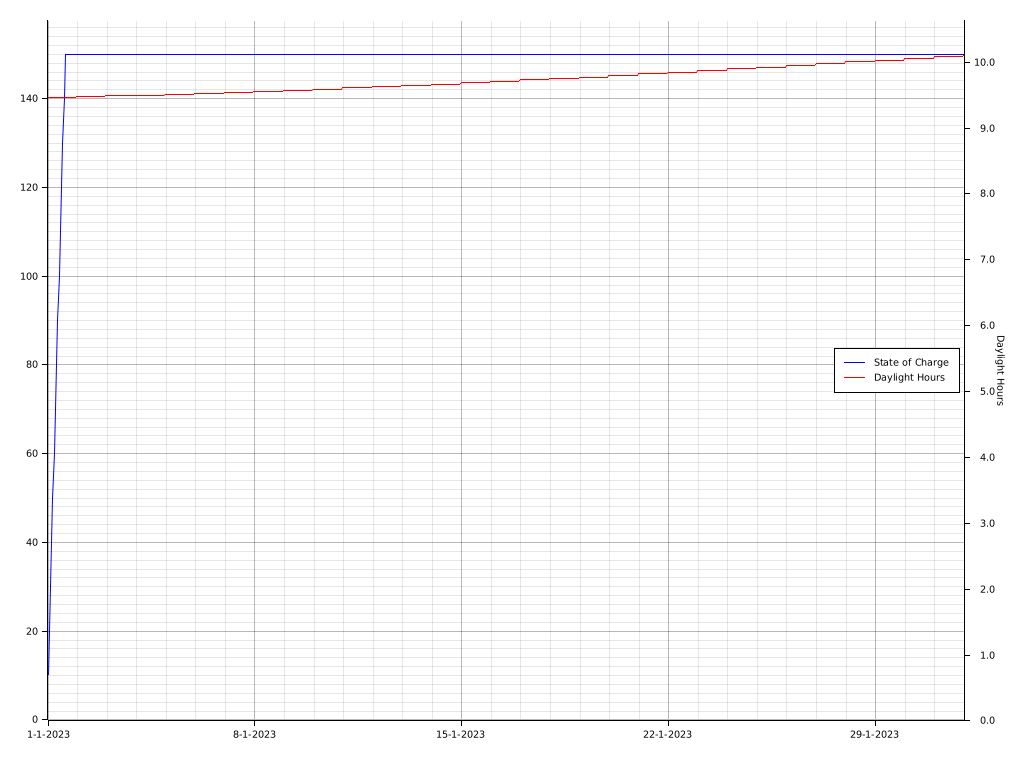
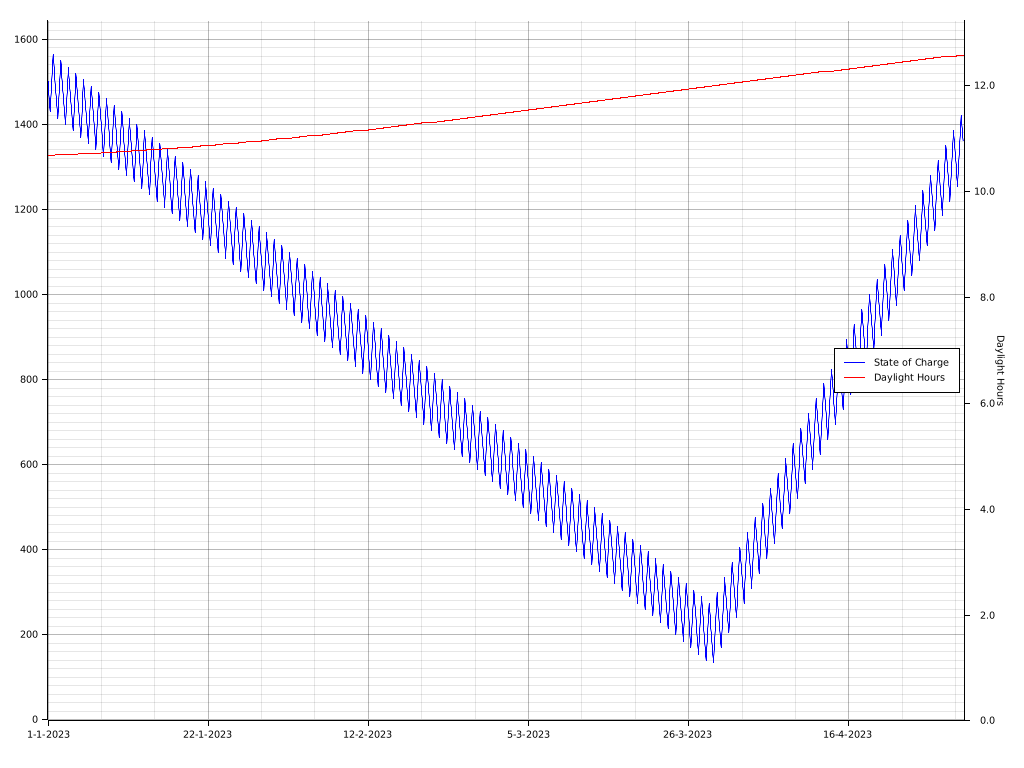
Calculate actual solar durations - WIP

diff --git a/src/lib.rs b/src/lib.rs
@@ -12,7 +12,6 @@ pub struct State {
     pub solar_nominal_output: f32, // watts
     pub charge_history: Vec<f32>, // Wh
     pub latitude: f32,
-    pub ordinal_day: u32,
     pub history_dates: Vec<NaiveDateTime>,
     pub now: NaiveDateTime, 
     pub step_size: Duration
@@ -26,7 +25,6 @@ impl State {
             solar_nominal_output: 0.,
             charge_history: Vec::new(),
             latitude: 0.,
-            ordinal_day: 0,
             history_dates: Vec::new(),
             now:  NaiveDateTime::new(NaiveDate::from_ymd_opt(2023, 1, 1).unwrap(), NaiveTime::from_hms_opt(0,0,0).unwrap()),
             step_size: Duration::hours(1)
@@ -34,63 +32,31 @@ impl State {
     }
 }
 
-pub fn net_energy(state: &State) -> f32 {
-    let net_power = state.solar_nominal_output - total_load(&state);
-    net_power*bounded_daylight_hours(state.now, state.now + state.step_size, daylight_hours(state.latitude, state.ordinal_day))
-}
-
-#[test]
-fn test_net() {
-    let mut state = State::new();
-    state.battery_capacity = 100.;
-    state.current_stored_energy = 50.;
-    state.solar_nominal_output = 100.;
-    state.loads = vec![10.,10.,30.];
-    let net = net_energy(&state);
-    assert_eq!(net, 100.)
-}
-
-#[test]
-fn test_net_2() {
-    let mut state = State::new();
-    state.battery_capacity = 100.;
-    state.current_stored_energy = 50.;
-    state.solar_nominal_output = 50.;
-    state.loads = vec![10.];
-    let net = net_energy(&state);
-    assert_eq!(net, 80.)
-}
-
-pub fn total_load(state: &State) -> f32 {
-    state.loads.iter().sum()
-}
-#[test]
-fn test_total_loads() {
-    let mut state = State::new();
-    state.loads = vec![10.,10.,30.];
-    let total = total_load(&state);
-    assert_eq!(total, 50.)
-}
-
 
 pub fn step(state: &State) -> State {
     let delta = net_energy(&state);
-    let effective_delta = if delta < -state.current_stored_energy {
-        -state.current_stored_energy
-    } else if delta + state.current_stored_energy > state.battery_capacity {
-        state.battery_capacity - state.current_stored_energy
-    } else {
-        delta
-    };
+
+    let unbounded_charge = state.current_stored_energy + delta;
+
     let mut new_state = state.clone();
-    new_state.charge_history.push(state.current_stored_energy + effective_delta);
-    new_state.current_stored_energy += effective_delta;
+    new_state.charge_history.push(state.current_stored_energy);
+    new_state.current_stored_energy = if unbounded_charge < 0. {
+        0.
+    } else if unbounded_charge > state.battery_capacity {
+        state.battery_capacity
+    } else {
+        state.current_stored_energy + delta
+    };
+    new_state.now = state.now + state.step_size;
+    new_state.history_dates.push(state.now);
     new_state
 }
 
 #[test]
 fn test_step_1() {
     let mut state = State::new();
+    state.now = NaiveDateTime::new(NaiveDate::from_ymd_opt(2023, 1, 1).unwrap(), NaiveTime::from_hms_opt(12,0,0).unwrap());
+    state.step_size = Duration::hours(2);
     state.battery_capacity = 100.;
     state.current_stored_energy = 50.;
     state.solar_nominal_output = 0.;
@@ -113,13 +79,61 @@ fn test_step_2() {
 #[test]
 fn test_step_3() {
     let mut state = State::new();
+    state.now = NaiveDateTime::new(NaiveDate::from_ymd_opt(2023, 1, 1).unwrap(), NaiveTime::from_hms_opt(12,0,0).unwrap());
+
     state.battery_capacity = 100.;
     state.current_stored_energy = 50.;
     state.solar_nominal_output = 50.;
     state.loads = vec![10.];
     let net = step(&state);
-    assert_eq!(net.current_stored_energy, 100.)
+    assert_eq!(net.current_stored_energy, 90.)
 }
+
+pub fn net_energy(state: &State) -> f32 {
+    let actual_solar_energy = state.solar_nominal_output * bounded_daylight_hours(
+        state.now, 
+        state.now + state.step_size, 
+        daylight_hours(state.latitude, state.now.ordinal0()));
+    let load_energy = total_load(state) * state.step_size.num_minutes() as f32 / 60.;
+    actual_solar_energy - load_energy
+}
+
+#[test]
+fn test_net() {
+    let mut state = State::new();
+    state.now = NaiveDateTime::new(NaiveDate::from_ymd_opt(2023, 1, 1).unwrap(), NaiveTime::from_hms_opt(12,0,0).unwrap());
+    state.battery_capacity = 100.;
+    state.current_stored_energy = 50.;
+    state.solar_nominal_output = 80.;
+    state.loads = vec![10.,10.,30.];
+    let net = net_energy(&state);
+    assert_eq!(net, 30.)
+}
+
+#[test]
+fn test_net_2() {
+    let mut state = State::new();
+    state.now = NaiveDateTime::new(NaiveDate::from_ymd_opt(2023, 1, 1).unwrap(), NaiveTime::from_hms_opt(12,0,0).unwrap());
+    state.battery_capacity = 100.;
+    state.current_stored_energy = 50.;
+    state.solar_nominal_output = 50.;
+    state.loads = vec![10.];
+    let net = net_energy(&state);
+    assert_eq!(net, 40.)
+}
+
+pub fn total_load(state: &State) -> f32 {
+    state.loads.iter().sum()
+}
+#[test]
+fn test_total_loads() {
+    let mut state = State::new();
+    state.loads = vec![10.,10.,30.];
+    let total = total_load(&state);
+    assert_eq!(total, 50.)
+}
+
+
 
 pub fn daylight_hours(lat: f32, day: u32) -> f32{
 
@@ -148,25 +162,80 @@ fn test_daylight_1() {
 }
 
 pub fn bounded_daylight_duration(start: NaiveDateTime, end: NaiveDateTime, daylight_hours: f32) -> Duration {
-    let sunrise = start.clone();
-    sunrise.with_hour((12. - daylight_hours/2.) as u32);
-    let sunset = start.clone();
-    sunset.with_hour((12. - daylight_hours/2.) as u32);
+    let sunrise = start.clone().with_hour((12. - daylight_hours/2.) as u32).unwrap();
+    let sunset = start.clone().with_hour((12. + daylight_hours/2.) as u32).unwrap();
 
-    if start < sunrise && end > sunrise && end < sunset {
-        end - sunrise
-    } else if start > sunrise && end < sunset{
-        sunset - sunrise
-    } else if start > sunrise && start < sunset && end > sunset {
-        sunset - start
-    } else {
+    if end < sunrise || start > sunset {
         Duration::zero()
+    } else {
+        earlier_of(end, sunset) - later_of(start, sunrise)
     }
+}
+
+#[test]
+fn test_bounded_daylight_duration_1() {
+    let start =  NaiveDateTime::new(
+        NaiveDate::from_ymd_opt(2023, 1, 1).unwrap(), 
+        NaiveTime::from_hms_opt(12,0,0).unwrap());
+    let end =  NaiveDateTime::new(
+        NaiveDate::from_ymd_opt(2023, 1, 1).unwrap(), 
+        NaiveTime::from_hms_opt(13,0,0).unwrap());
+    assert_eq!(bounded_daylight_duration(start, end, 12.), Duration::hours(1))
 }
 
 pub fn bounded_daylight_hours(start: NaiveDateTime, end: NaiveDateTime, daylight_hours: f32) -> f32 {
     let dur = bounded_daylight_duration(start, end, daylight_hours);
-    dur.num_hours() as f32 + dur.num_hours() as f32 / 60.
+    dur.num_seconds() as f32 / (60.*60.)
+}
+
+#[test]
+fn test_bounded_daylight_hours_1() {
+    let start =  NaiveDateTime::new(
+        NaiveDate::from_ymd_opt(2023, 1, 1).unwrap(), 
+        NaiveTime::from_hms_opt(12,0,0).unwrap());
+    let end =  NaiveDateTime::new(
+        NaiveDate::from_ymd_opt(2023, 1, 1).unwrap(), 
+        NaiveTime::from_hms_opt(13,0,0).unwrap());
+    assert_eq!(bounded_daylight_hours(start, end, 12.), 1.)
+}
+
+#[test]
+fn test_bounded_daylight_hours_2() {
+    let start =  NaiveDateTime::new(
+        NaiveDate::from_ymd_opt(2023, 1, 1).unwrap(), 
+        NaiveTime::from_hms_opt(12,0,0).unwrap());
+    let dur =  Duration::hours(1);
+    assert_eq!(bounded_daylight_hours(start, start + dur, 12.), 1.)
+}
+
+pub fn later_of(a: NaiveDateTime, b: NaiveDateTime) -> NaiveDateTime {
+    if a > b {
+        a
+    } else {
+        b
+    }
+}
+
+#[test]
+fn test_time_comparison() {
+    let noon =  NaiveDateTime::new(
+        NaiveDate::from_ymd_opt(2023, 1, 1).unwrap(), 
+        NaiveTime::from_hms_opt(12,0,0).unwrap());
+    let nine_am =  NaiveDateTime::new(
+        NaiveDate::from_ymd_opt(2023, 1, 1).unwrap(), 
+        NaiveTime::from_hms_opt(12,0,0).unwrap());
+    assert_eq!(later_of(noon, nine_am), noon);
+    assert_eq!(later_of(nine_am, noon), noon);
+    assert_eq!(earlier_of(noon, nine_am), nine_am);
+    assert_eq!(earlier_of(nine_am, noon), nine_am);
+}
+
+pub fn earlier_of(a: NaiveDateTime, b: NaiveDateTime) -> NaiveDateTime {
+    if a < b {
+        a
+    } else {
+        b
+    }
 }
 
 pub fn solar_power(nominal_power: f32, start: NaiveDateTime, end: NaiveDateTime, daylight_hours: f32) -> f32 {

diff --git a/src/main.rs b/src/main.rs
@@ -1,33 +1,27 @@
 use transient_solar_battery_simulation::*;
-use chrono::{Datelike, Duration, NaiveDate};
+use chrono::{Datelike, NaiveDate};
 
 fn main() {
     // Create state
     let mut state = State::new();
-    state.solar_nominal_output = 20.;
-    state.battery_capacity = 150.;
+    state.solar_nominal_output = 25.;
+    state.latitude = 20.;
+    state.battery_capacity = 2000.;
+    state.current_stored_energy = 1500.;
     state.loads.push(10.);
-    println!("{:?}", state);
 
-    let mut dates = Vec::new();
     let mut durations = Vec::new();
 
     // Iterate
-    let mut t = NaiveDate::from_ymd_opt(2023, 1, 1).unwrap()
-        .and_hms_opt(0, 0, 0).unwrap();
-    let end = NaiveDate::from_ymd_opt(2023, 2, 1).unwrap()
+    let end = NaiveDate::from_ymd_opt(2023, 5, 1).unwrap()
         .and_hms_opt(0, 0, 0).unwrap();
 
-    while t < end {
+    while state.now < end {
         state = step(&state);
-
-        dates.push(t.clone());
-
-        t += Duration::hours(1);
-        durations.push(daylight_hours(36., t.ordinal0()));
+        durations.push(daylight_hours(state.latitude, state.now.ordinal0()));
     }
     chart(
-        dates, 
+        state.history_dates, 
         vec![state.charge_history], 
     vec![durations],
         vec!["State of Charge".to_string(), "Daylight Hours".to_string()], 
